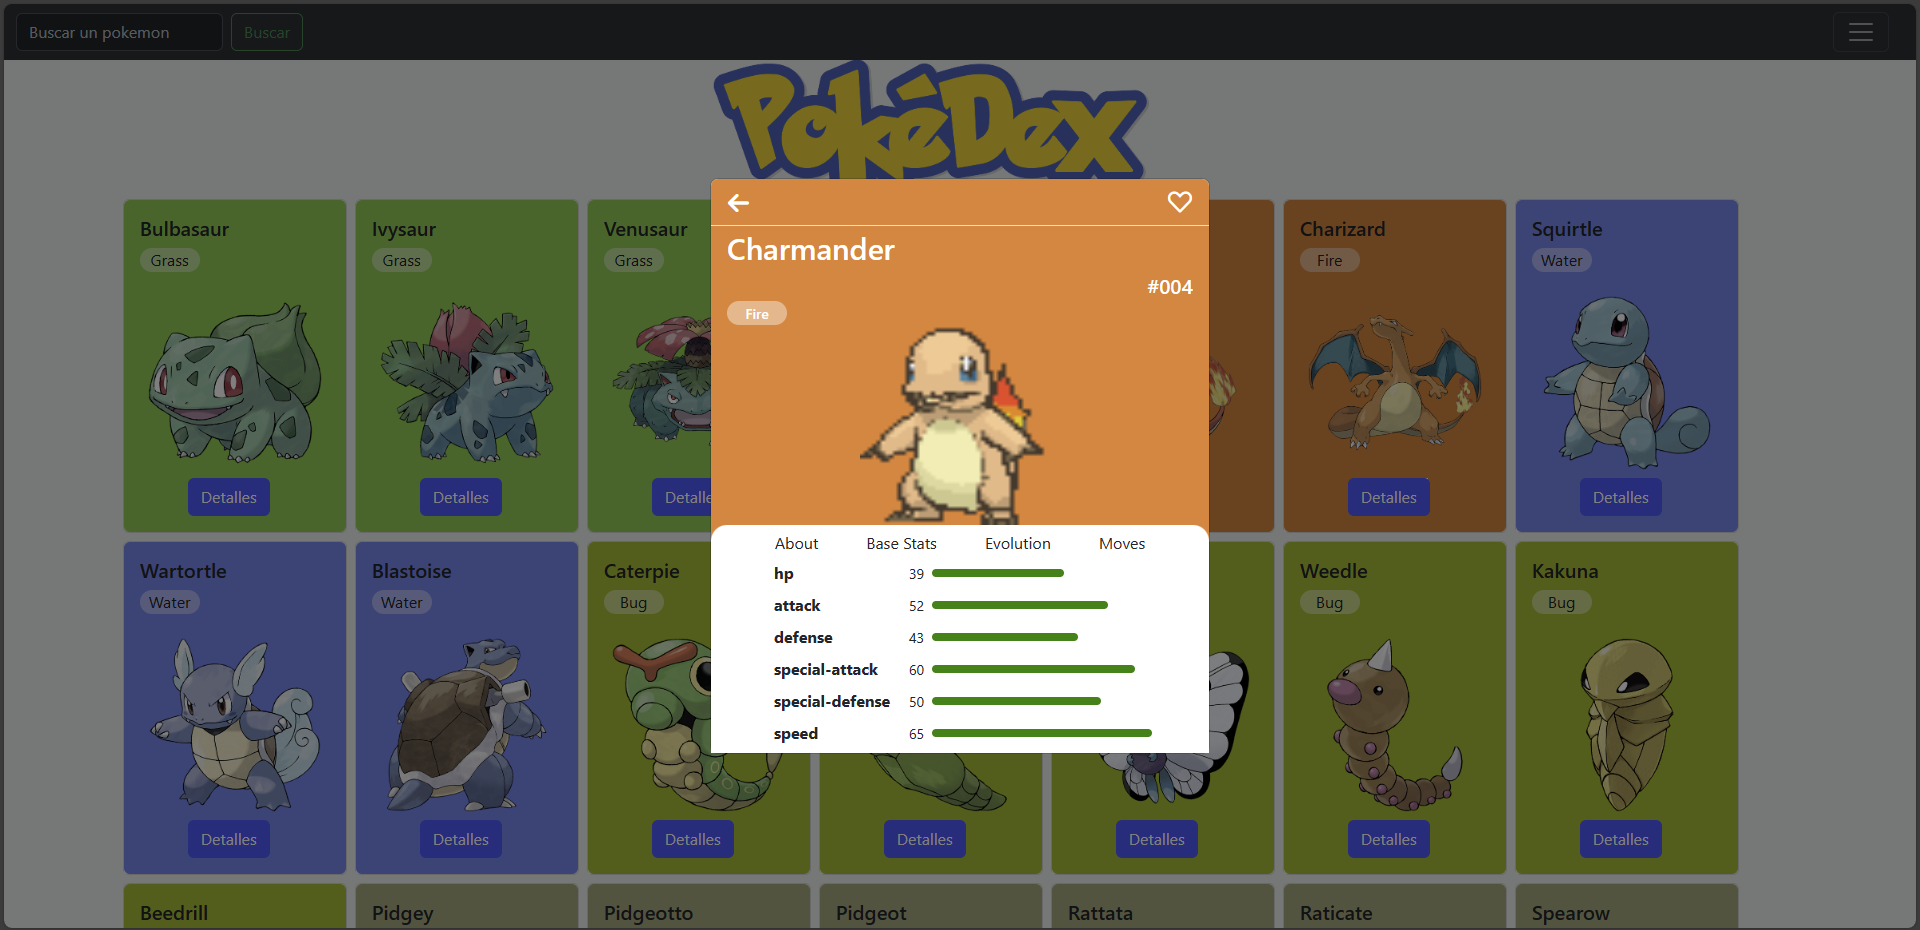
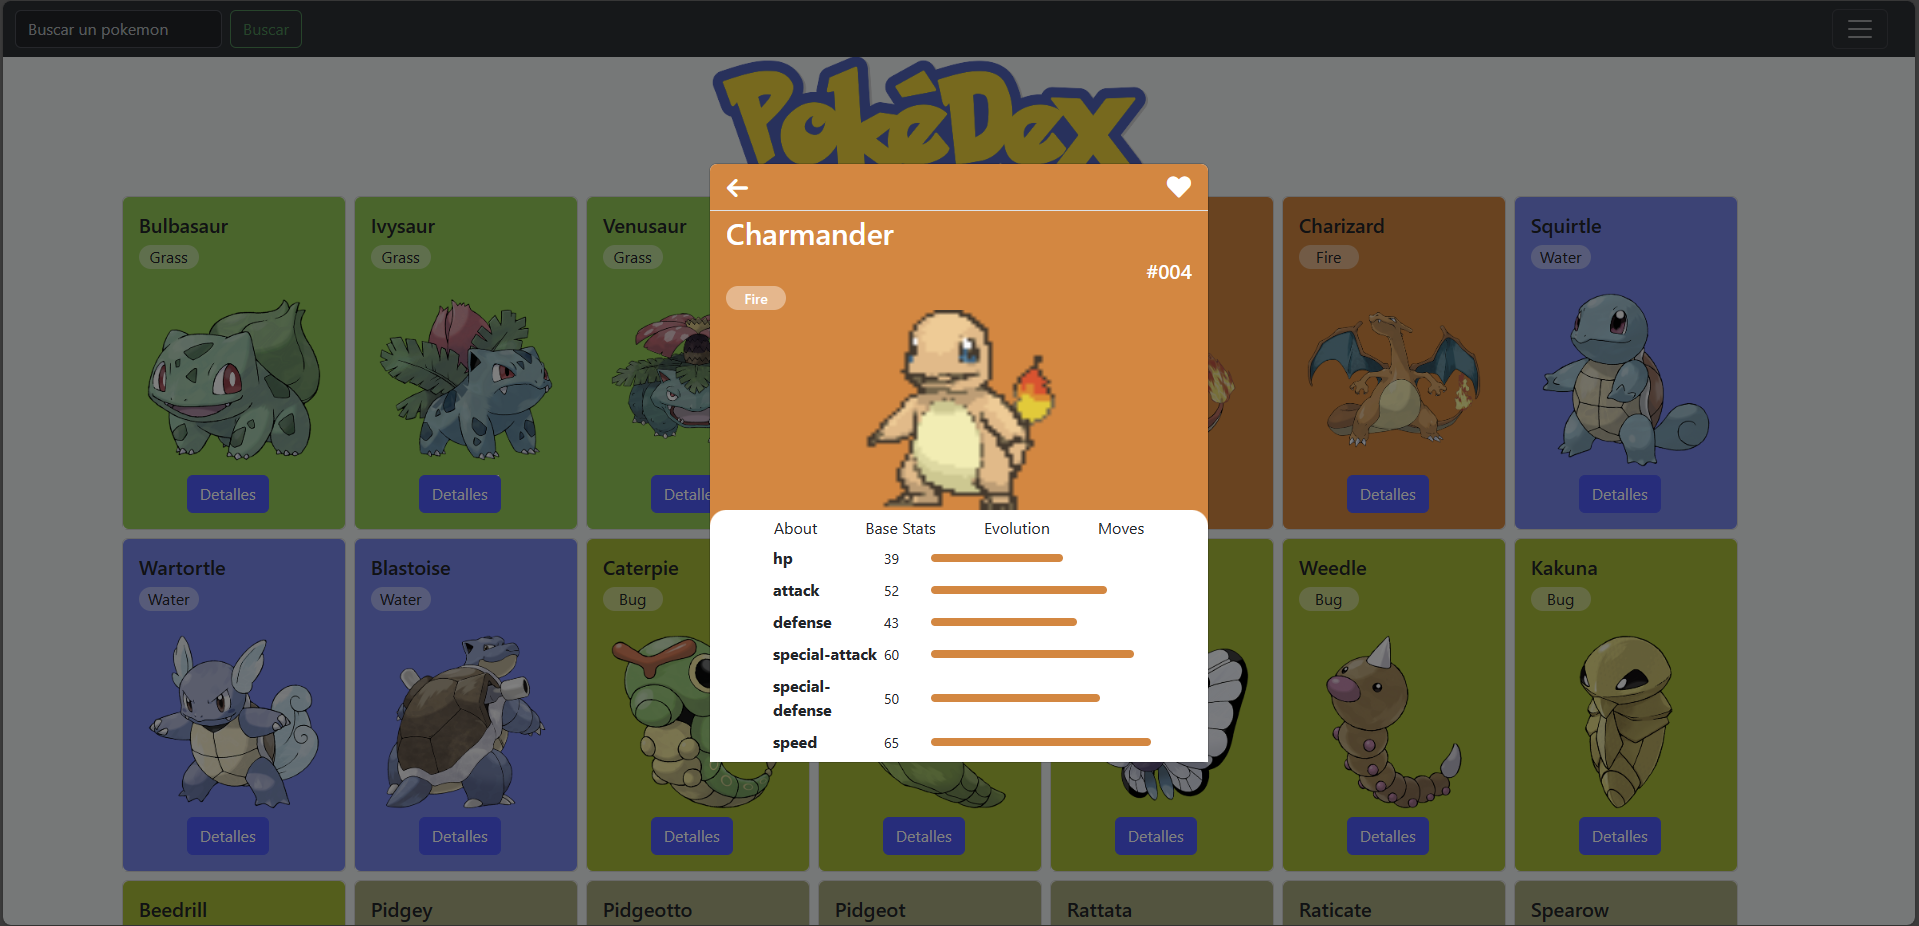
Agregado evento de like al botón de los card

diff --git a/index.html b/index.html
@@ -58,7 +58,7 @@
                     <!--                    Nombre del Pokemon acá-->
                     <!-- <button type="button" class="btn btn-secondary" data-bs-dismiss="modal" data-close-button>Cerrar</button> -->
                     <button type="button" class="btn" data-bs-dismiss="modal" data-close-button><i class="fa-solid fa-arrow-right fa-rotate-180 fa-xl" style="color: #ffff; border: none;"></i></button>
-                    <button type="button" class="btn"><i class="fa-regular fa-heart fa-xl" style="color: #ffff; border: none;"></i></button>
+                    <button type="button" class="btn"><i class="fa-regular fa-heart fa-xl like-button" style="color: #ffff; border: none;"></i></button>
                 </article>
                 <article class="modal-body p-0">
 <!--                    Imagen del Pokemon acá-->

diff --git a/assets/js/cardCreator.js b/assets/js/cardCreator.js
@@ -391,3 +391,7 @@ const addEvolutionImage = (pokemonName, imageContainer) => {
     img.classList.add("evolution-gif", "mx-5");
     imageContainer.appendChild(img);
 };
+
+document.querySelector(".like-button").addEventListener("click", function (){
+    document.querySelector(".like-button").classList.toggle("fa-solid");
+});
